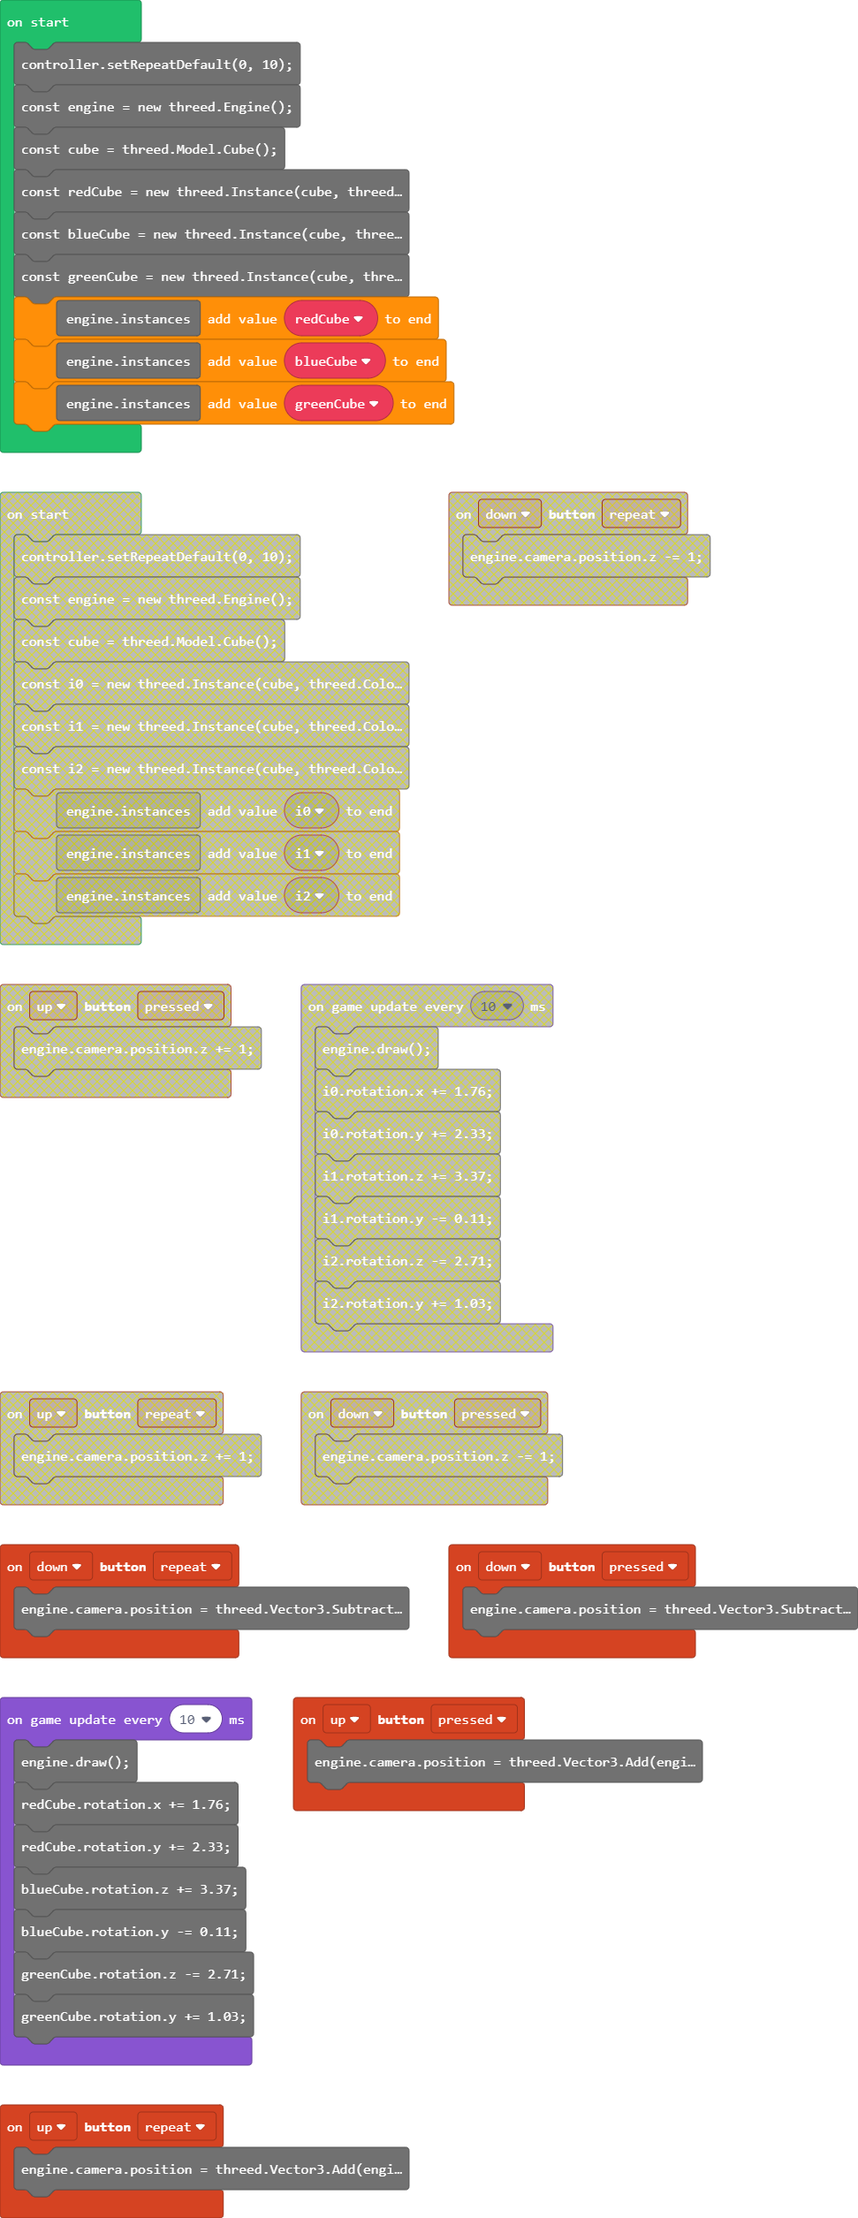
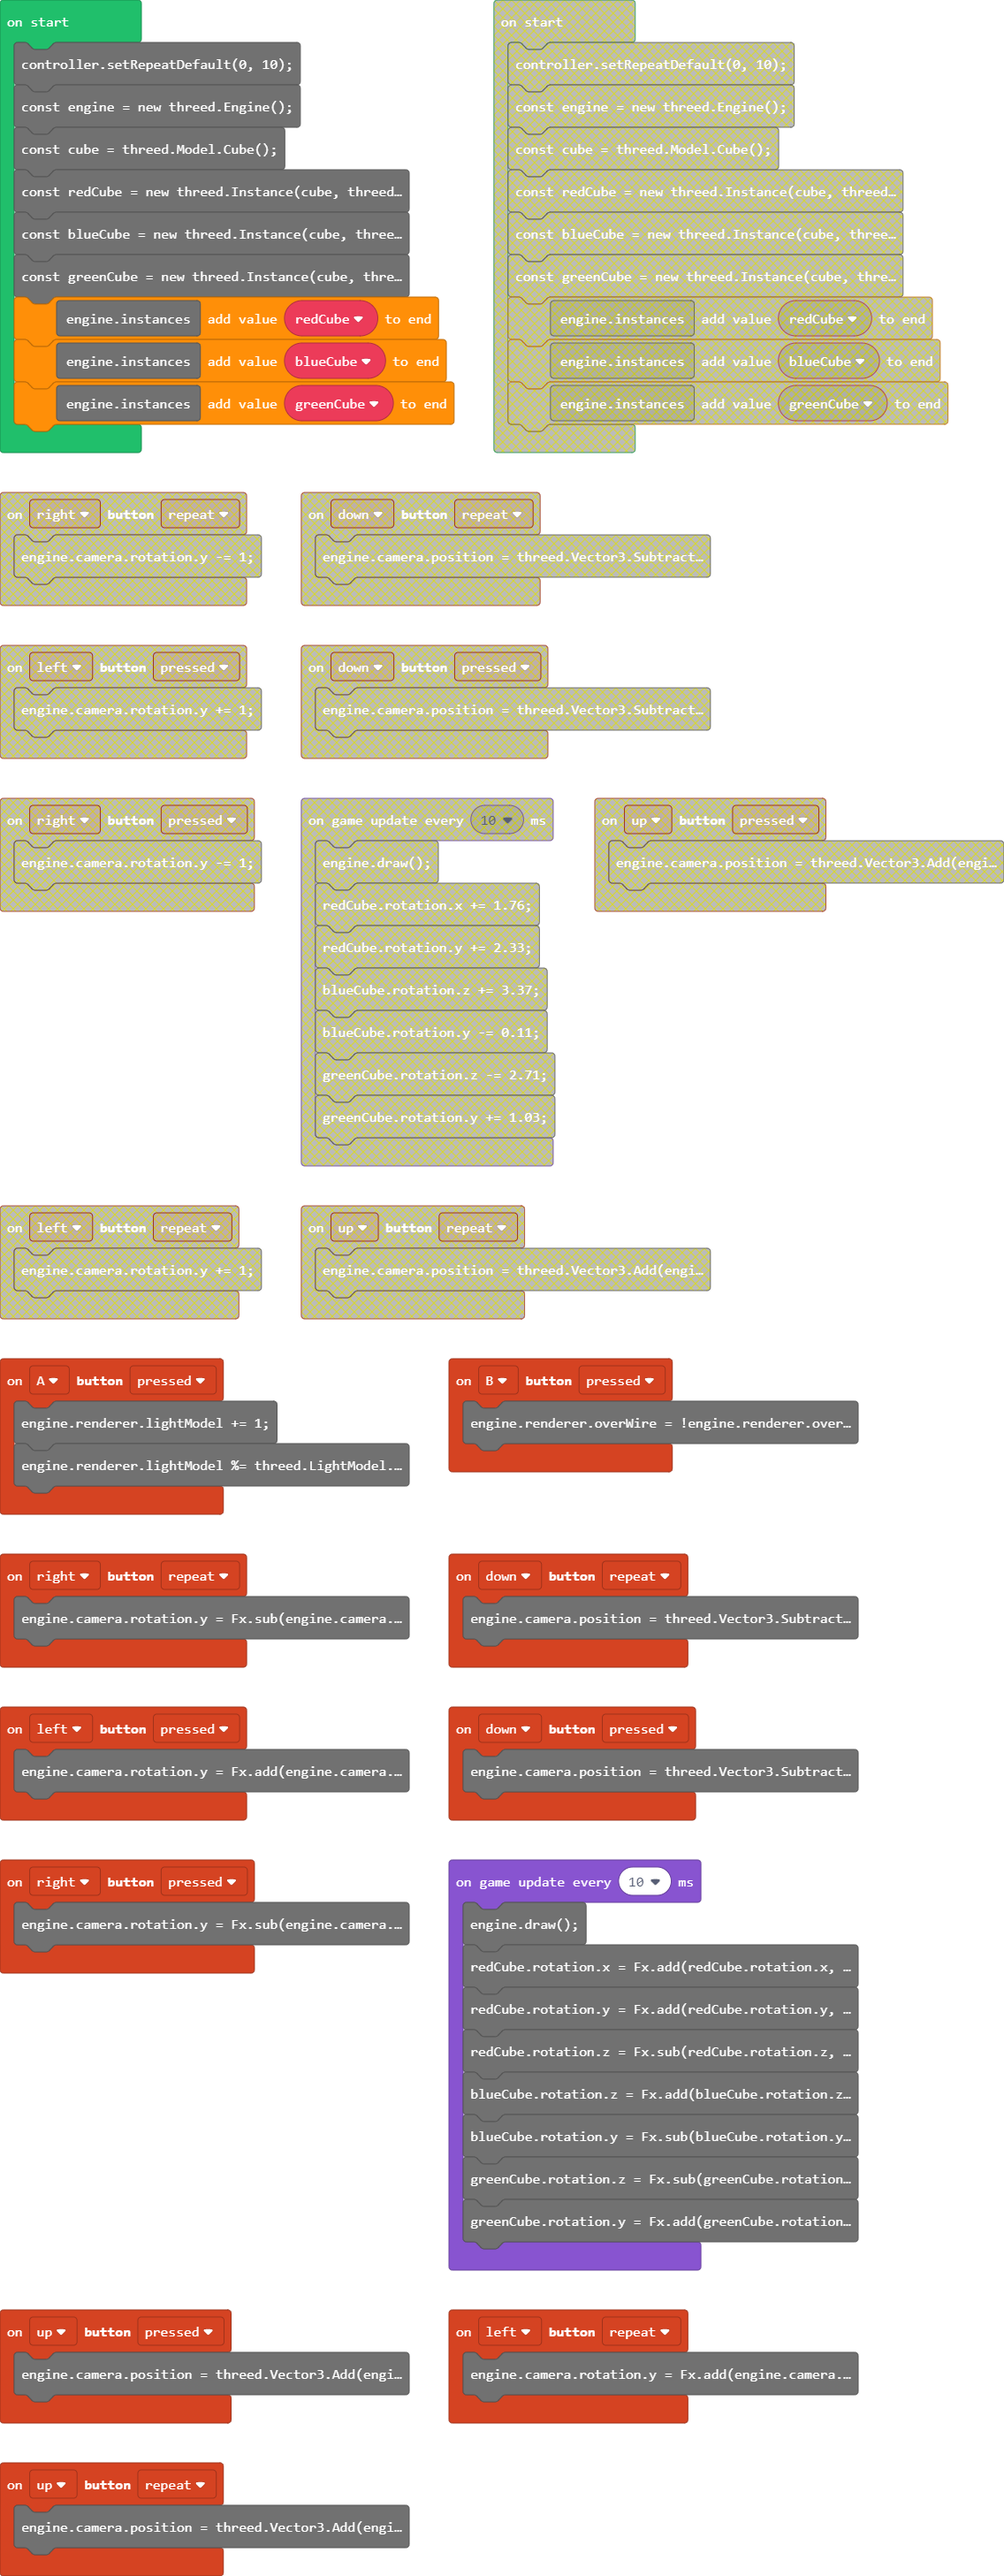
re-add multicube

diff --git a/main.ts b/main.ts
@@ -10,6 +10,13 @@ controller.left.onEvent(ControllerButtonEvent.Pressed, function () {
 controller.down.onEvent(ControllerButtonEvent.Pressed, function () {
     engine.camera.position = threed.Vector3.Subtract(engine.camera.position, threed.Vector3.Scale(Fx.oneFx8, engine.camera.forward));
 })
+controller.B.onEvent(ControllerButtonEvent.Pressed, function () {
+    engine.renderer.overWire = !engine.renderer.overWire;
+})
+controller.A.onEvent(ControllerButtonEvent.Pressed, function () {
+    engine.renderer.lightModel += 1;
+engine.renderer.lightModel %= threed.LightModel.Count;
+})
 controller.right.onEvent(ControllerButtonEvent.Pressed, function () {
     engine.camera.rotation.y = Fx.sub(engine.camera.rotation.y, Fx.oneFx8);
 })
@@ -22,28 +29,22 @@ controller.up.onEvent(ControllerButtonEvent.Pressed, function () {
 controller.left.onEvent(ControllerButtonEvent.Repeated, function () {
     engine.camera.rotation.y = Fx.add(engine.camera.rotation.y, Fx.oneFx8);
 })
-controller.A.onEvent(ControllerButtonEvent.Pressed, function () {
-    engine.renderer.lightModel += 1;
-    engine.renderer.lightModel %= threed.LightModel.Count;
-})
-controller.B.onEvent(ControllerButtonEvent.Pressed, function () {
-    engine.renderer.overWire = !engine.renderer.overWire;
-})
 controller.setRepeatDefault(0, 10);
 const engine = new threed.Engine();
 const cube = threed.Model.Cube();
-const redCube = new threed.Instance(cube, threed.Colors.Red, new threed.Vector3(Fx8(0), Fx8(0), Fx8(8)), new threed.Vector3(Fx8(0), Fx8(0), Fx8(0)), 1);
+const redCube = new threed.Instance(cube, threed.Colors.Red, new threed.Vector3(Fx8(0), Fx8(0), Fx8(10)), new threed.Vector3(Fx8(0), Fx8(0), Fx8(0)), 1);
 const blueCube = new threed.Instance(cube, threed.Colors.Blue, new threed.Vector3(Fx8(2.75), Fx8(0), Fx8(10)), new threed.Vector3(Fx8(0), Fx8(0), Fx8(0)), 1.25);
 const greenCube = new threed.Instance(cube, threed.Colors.Green, new threed.Vector3(Fx8(-2.75), Fx8(0), Fx8(10)), new threed.Vector3(Fx8(0), Fx8(0), Fx8(0)), 1.25);
 engine.instances.push(redCube)
-//engine.instances.push(blueCube)
-//engine.instances.push(greenCube)
+engine.instances.push(blueCube)
+engine.instances.push(greenCube)
 game.onUpdateInterval(10, function () {
     engine.draw();
-    redCube.rotation.x = Fx.add(redCube.rotation.x, Fx8(1.76));
-    redCube.rotation.y = Fx.add(redCube.rotation.y, Fx8(2.33));
-//blueCube.rotation.z += 3.37;
-//blueCube.rotation.y -= 0.11;
-//greenCube.rotation.z -= 2.71;
-//greenCube.rotation.y += 1.03;
+redCube.rotation.x = Fx.add(redCube.rotation.x, Fx8(1.76));
+redCube.rotation.y = Fx.add(redCube.rotation.y, Fx8(2.33));
+redCube.rotation.z = Fx.sub(redCube.rotation.z, Fx8(0.03));
+blueCube.rotation.z = Fx.add(blueCube.rotation.z, Fx8(3.37));
+blueCube.rotation.y = Fx.sub(blueCube.rotation.y, Fx8(0.11));
+greenCube.rotation.z = Fx.sub(greenCube.rotation.z, Fx8(2.71));
+greenCube.rotation.y = Fx.add(greenCube.rotation.y, Fx8(1.03));
 })

diff --git a/engine.ts b/engine.ts
@@ -17,7 +17,7 @@ namespace threed {
             this._light = new Light(Vector3.Normalized(new Vector3(Fx.oneFx8, Fx.oneFx8, Fx8(-1))));
             this._renderer = new Renderer0(this);
             this._renderer.backfaceCulling = true;
-            this._renderer.depthCheckEnabled = false;
+            this._renderer.depthCheckEnabled = true;
             this._renderer.overWire = false;
             this._renderer.lightModel = LightModel.Dither;
 
